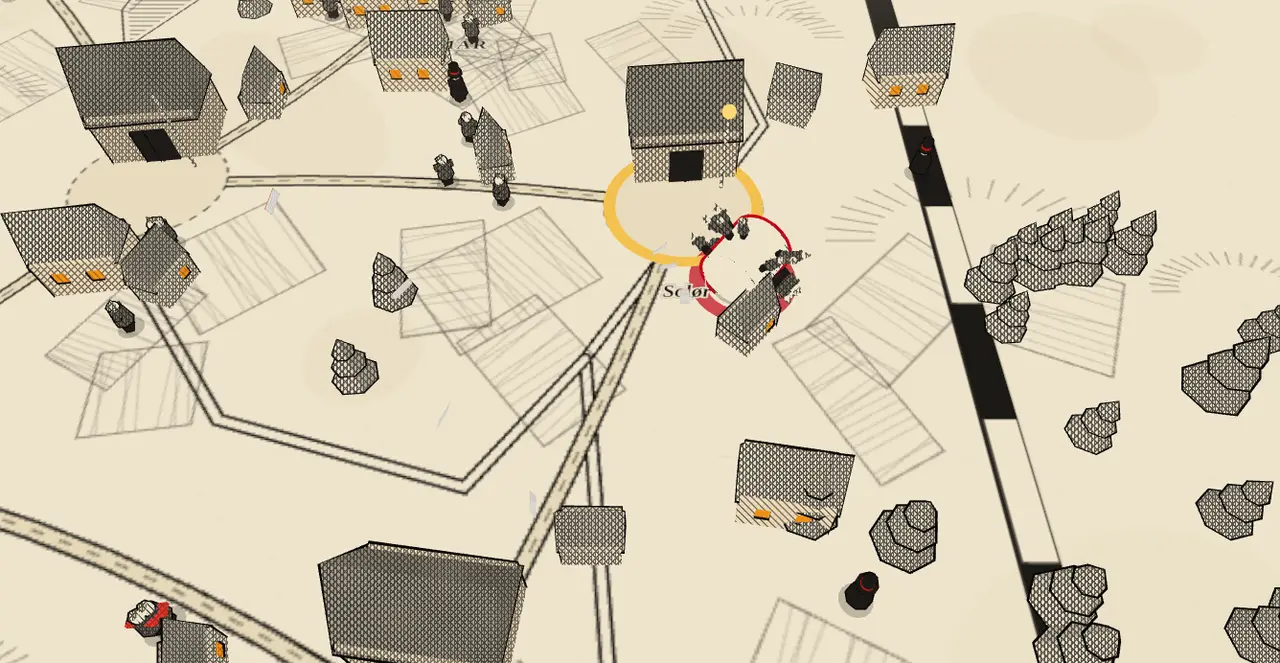
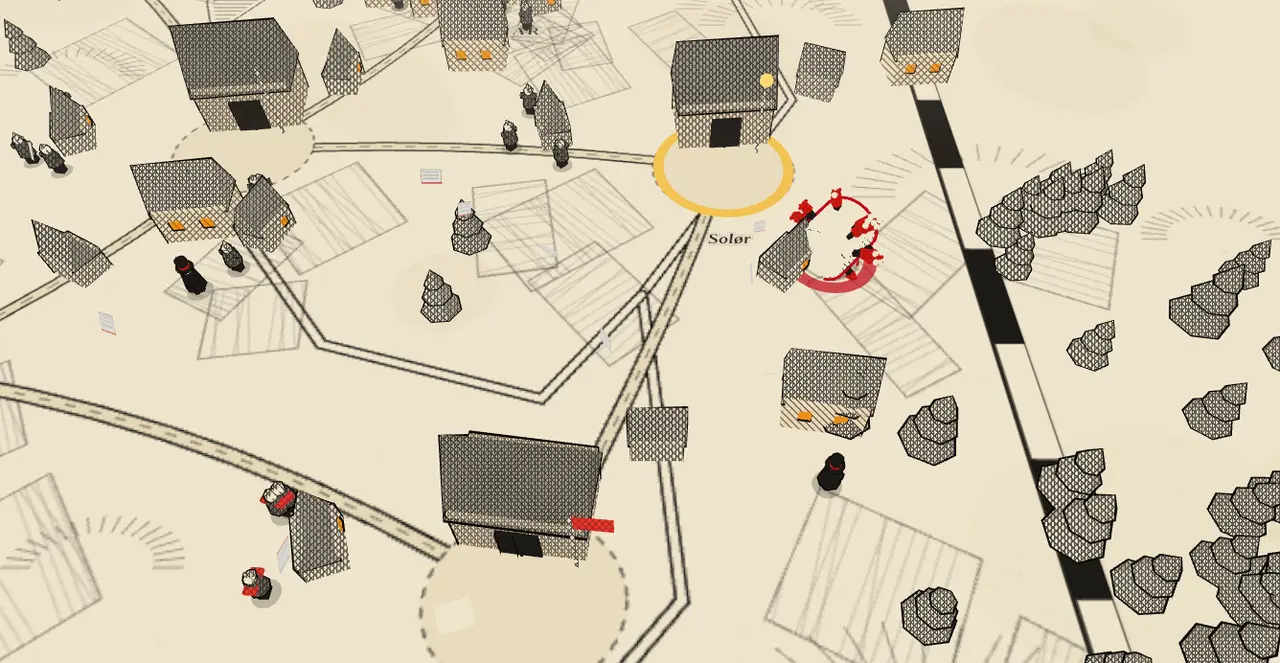
mikrospill: Petisjonen etter vurdering 4 (sum 20) - skremsel i stedet for riving, ryddigere skjerm, poeng for tidlig levering
Claude-Session: https://claude.ai/code/session_01Eke66YY2DheehCUdkLfmv8

diff --git a/src/components/microgames/Petisjonen3D.tsx b/src/components/microgames/Petisjonen3D.tsx
@@ -63,7 +63,8 @@ import {
 // og vikler opp navn (Katamari). Fagkjernen er regelen fra artikkelen: alene
 // får du ett navn om gangen. Samler du folk fra én bygd og holder møte i låven,
 // starter de sin egen forening med egen leder - og den samler navn til deg og
-// verver nabobygdene. De med stemmerett (høy svart hatt) river av navn.
+// verver nabobygdene. De med stemmerett (høy svart hatt) skremmer folk til å
+// trekke navnet sitt.
 //
 // Tone: alvorlig. Seieren følger plottet: 13 000 navn, levert på Slottet. Så
 // sier kongen nei - slik det skjedde.
@@ -95,18 +96,19 @@ const THEME: Partial<ArcadeTheme> = {
     tilt: 0,
     hudText: INK,
     hudStroke: PAPER,
-    bannerTop: '31%',
+    // Bannerne står rett under avishodet, aldri midt på rullen.
+    bannerTop: '19%',
 };
 
 const DEATH: Record<Cause, string> = {
     kort: 'Mai 1850: Petisjonen har bare {n} navn. Den er for kort til å sendes til kongen.',
-    revet: '{dato}: De med stemmerett har revet petisjonen i stykker. Det er ingen navn igjen.',
+    revet: '{dato}: De med makt har skremt alle til å trekke navnet sitt. Det er ingen navn igjen.',
 };
 
 const TIPS = {
     organiser:
         'Tips: Alene får du ett navn om gangen. Rull inn i folk fra samme bygd, og hold møte i låven når lykta lyser. Da samler foreningen navnene for deg.',
-    hatt: 'Tips: Høy svart hatt betyr stemmerett. De river av navn - sving rundt dem, og ikke stå stille når de kommer.',
+    hatt: 'Tips: Høy svart hatt betyr stemmerett og makt. De skremmer folk til å trekke navnet - sving rundt dem, og lever navnene i Bladet.',
     naer: 'Tips: Navnene flyr bare til deg når du er innenfor den røde ringen rundt foreningen. Rull ofte innom de store foreningene.',
 };
 
@@ -276,8 +278,9 @@ function Loop({
         zoom.current += (R.r - zoom.current) * Math.min(1, dt * 1.5);
         const zr = zoom.current;
         const menu = modeRef.current === 'menu';
-        const h = menu ? 19 : 15.5 + zr * 5.2;
-        const back = menu ? 13 : 10.5 + zr * 3.8;
+        const kick = Math.sin(g.kick * Math.PI) * 3;
+        const h = menu ? 19 : 15.5 + zr * 5.2 + kick;
+        const back = menu ? 13 : 10.5 + zr * 3.8 + kick * 0.6;
         const lx = R.p[0] + R.v[0] * 0.25;
         const lz = R.p[1] + R.v[1] * 0.25 - 1;
         CAM.set(lx + (menu ? Math.sin(state.clock.elapsedTime * 0.2) * 3 : 0), h, lz + back);
@@ -513,7 +516,7 @@ export default function Petisjonen3D({ onComplete }: MicroGameProps) {
             sfx.lose();
             buzz(220);
             setModeBoth('dying');
-            text.banner(cause === 'revet' ? 'PETISJONEN REVET' : 'FOR FÅ NAVN', INK, 2.4);
+            text.banner(cause === 'revet' ? 'ALLE NAVN TRUKKET' : 'FOR FÅ NAVN', INK, 2.4);
             window.setTimeout(() => endRun(false, cause), 2600);
         },
         delivered: () => {
@@ -566,12 +569,12 @@ export default function Petisjonen3D({ onComplete }: MicroGameProps) {
                     }
                     return best;
                 };
-                text.beatOnce(
-                    'politi',
-                    'Politiet tar lederne',
-                    'Kongen sa nei, og nå arresterer politiet lederne. Rull til foreningene og få lederne i skjul før politiet kommer.',
-                    { at: toScreen(near), until: () => Date.now() - t0 > 4500 }
-                );
+                // En lapp ved nærmeste leder - spillet går videre i full fart.
+                text.point('politi', 'Få lederen i skjul før politiet!', toScreen(near), {
+                    seconds: 4.5,
+                    tone: 'fare',
+                    until: () => Date.now() - t0 > 4500,
+                });
             }, 2900);
         },
         win: () => {
@@ -606,9 +609,7 @@ export default function Petisjonen3D({ onComplete }: MicroGameProps) {
                 hud.ghost.current.style.width = `${Math.min(100, ((n + piles) / GOAL) * 100)}%`;
             if (hud.piles.current)
                 hud.piles.current.textContent =
-                    g.phase !== 'samle'
-                        ? ''
-                        : `${nb(g.safe)} trygt i Bladet${piles >= 20 ? ` · ${nb(piles)} venter hos foreningene` : ''}`;
+                    g.phase !== 'samle' ? '' : `${nb(g.safe)} trygt i Bladet`;
             const d = dateOf(g.t);
             if (hud.date.current)
                 hud.date.current.textContent =
@@ -736,7 +737,7 @@ export default function Petisjonen3D({ onComplete }: MicroGameProps) {
                     press: g.press,
                     årsak:
                         g.cause === 'revet'
-                            ? `petisjonen revet i stykker (${g.hits} treff, ${Math.round(g.torn)} navn revet av)`
+                            ? `alle navn trukket (${g.hits} treff, ${Math.round(g.torn)} navn trukket)`
                             : g.cause === 'kort'
                               ? `bare ${Math.round(g.roll.names)} navn i mai 1850 (${g.foundedByYou} foreninger startet, ${g.recruited} vervet, ${g.hits} treff)`
                               : undefined,
@@ -986,7 +987,8 @@ export default function Petisjonen3D({ onComplete }: MicroGameProps) {
                                     <i style={{ background: INK }} />
                                 </span>
                                 <span>
-                                    <b>Høy svart hatt:</b> har stemmerett og river av navn.
+                                    <b>Høy svart hatt:</b> har stemmerett og skremmer folk til å
+                                    trekke navnet.
                                 </span>
                                 <span>
                                     <i style={{ background: PAPER, borderStyle: 'dashed' }} />
@@ -1138,7 +1140,7 @@ export default function Petisjonen3D({ onComplete }: MicroGameProps) {
                                     { value: nb(result.names), label: 'navn' },
                                     { value: result.foreninger, label: 'foreninger' },
                                     { value: nb(result.medlemmer), label: 'medlemmer' },
-                                    { value: nb(result.torn), label: 'navn revet av' },
+                                    { value: nb(result.torn), label: 'navn trukket' },
                                 ]}
                             />
                             {result.newEntries.length > 0 ? (

diff --git a/src/components/microgames/petisjonen/game.ts b/src/components/microgames/petisjonen/game.ts
@@ -7,7 +7,7 @@
 // starter de sin egen forening med egen leder. Foreningen verver videre av seg
 // selv og samler navn til deg - og fra mai 1849, da avisa kom, verver store
 // foreninger også nabobygda. De med stemmerett (gårdeiere og embetsmenn) vil
-// ikke ha forandring: de jager rullen og river av navn.
+// ikke ha forandring: de jager rullen og skremmer folk til å trekke navnet sitt.
 
 import {
     PLACES,
@@ -204,6 +204,8 @@ export interface G {
     delivered: boolean;
     cause: Cause | null;
     shake: number;
+    /** Kameraet puffer bakover når rullen vokser et trinn. */
+    kick: number;
     torn: number;
     hits: number;
     singles: number;
@@ -224,6 +226,8 @@ export interface G {
     /** 'samle' til petisjonen er levert, så 'knusing' (1851): politiet tar lederne. */
     phase: 'samle' | 'knusing';
     knusT: number;
+    /** Når petisjonen ble levert (for tidsbonusen). */
+    deliveredT: number;
     leaders: Leader[];
     saved: number;
     arrested: number;
@@ -374,6 +378,7 @@ export function newGame(rand: () => number = Math.random): G {
         delivered: false,
         cause: null,
         shake: 0,
+        kick: 0,
         torn: 0,
         hits: 0,
         singles: 0,
@@ -391,6 +396,7 @@ export function newGame(rand: () => number = Math.random): G {
         banked: 0,
         phase: 'samle',
         knusT: 0,
+        deliveredT: 0,
         leaders: [],
         saved: 0,
         arrested: 0,
@@ -511,7 +517,7 @@ function tear(g: G, h: Hunter, io: IO) {
         });
     io.lesson(
         'stemmerett',
-        'Embetsmenn og gårdeiere hadde stemmerett. De ville ikke dele makta med husmenn og arbeidere.',
+        'Embetsmenn og gårdeiere hadde stemmerett og makt. De ville ikke dele den, og husmenn som kunne bli kastet ut, var redde.',
         1
     );
     // Er det ingenting igjen å rive av, er petisjonen revet i stykker.
@@ -526,7 +532,7 @@ function tear(g: G, h: Hunter, io: IO) {
     const take = Math.min(R.names, lost);
     R.names -= take;
     g.torn += take;
-    io.float(`-${take} NAVN`, R.p[0], R.p[1], '#e0342a', true);
+    io.float(`SKREMT: -${take} NAVN`, R.p[0], R.p[1], '#e0342a', true);
     // Figurer ryker også av.
     g.stuck.splice(0, Math.min(g.stuck.length, 3));
 }
@@ -535,8 +541,11 @@ function tear(g: G, h: Hunter, io: IO) {
 // Sluttfasen, 1851: kongen sa nei, og politiet tar lederne
 // ---------------------------------------------------------------------------
 
+const LEADER_BONUS = 900;
+
 function startKnusing(g: G, io: IO) {
     g.delivered = true;
+    g.deliveredT = g.t;
     g.phase = 'knusing';
     g.knusT = 0;
     g.open = false;
@@ -587,10 +596,10 @@ function knusing(g: G, dt: number, io: IO) {
         if (dist(R.p, tun) < R.r + 1.7) {
             l.state = 'skjult';
             g.saved++;
-            g.score += 500;
+            g.score += LEADER_BONUS;
             R.bump = 1;
             io.sfx.found();
-            io.float('LEDER I SKJUL +500', tun[0], tun[1], '#b3261e', true);
+            io.float(`LEDER I SKJUL +${LEADER_BONUS}`, tun[0], tun[1], '#b3261e', true);
             if (g.stuck.length < MAX_STUCK)
                 g.stuck.push({ ang: -R.spin, along: 0, wob: g.rand() * 6, kind: 0 });
         }
@@ -986,6 +995,7 @@ export function update(g: G, dt: number, io: IO) {
         R.names >= 8000 ? 4 : R.names >= 3000 ? 3 : R.names >= 800 ? 2 : R.names >= 150 ? 1 : 0;
     if (lvl > g.level) {
         g.level = lvl;
+        g.kick = 1;
         io.sfx.grow(lvl);
         io.float(`${GROW_NAMES[lvl]}!`, R.p[0], R.p[1], '#b3261e', true);
     }
@@ -1006,7 +1016,7 @@ export function update(g: G, dt: number, io: IO) {
             io.beat(
                 'hatt',
                 'Høy svart hatt = stemmerett',
-                'Embetsmenn og gårdeiere kunne stemme. De ville ikke ha forandring, og river navn av petisjonen. Sving unna!',
+                'De hadde stemmerett og ville ikke ha forandring. Når de kommer, blir folk redde og trekker navnet sitt. Sving unna!',
                 () => h.p,
                 () => Date.now() - t0 > 4500
             );
@@ -1172,6 +1182,7 @@ function addNames(g: G, n: number) {
 /** Enkle effekter som går også utenfor spill (meny, slutt-skjerm). */
 export function stepFx(g: G, dt: number) {
     g.shake = Math.max(0, g.shake - dt * 2);
+    g.kick = Math.max(0, g.kick - dt * 1.2);
     for (let k = g.scraps.length - 1; k >= 0; k--) {
         const s = g.scraps[k];
         s.life -= dt;
@@ -1218,8 +1229,9 @@ export function liveScore(g: G) {
 }
 
 export function finalScore(g: G, won: boolean) {
-    const left = Math.max(0, RUN_SECONDS - g.t);
-    return Math.floor(liveScore(g) + (won ? 2000 + left * 60 : 0));
+    // Tidsbonus for hver måned (hvert sekund) du leverte før mai 1850.
+    const left = Math.max(0, RUN_SECONDS - (g.deliveredT || g.t));
+    return Math.floor(liveScore(g) + (won ? 2000 + left * 120 : 0));
 }
 
 export { dist, SLOTTET, PLACES };

diff --git a/src/components/microgames/petisjonen/world.tsx b/src/components/microgames/petisjonen/world.tsx
@@ -114,6 +114,13 @@ const GEO = {
         { geometry: new THREE.ConeGeometry(0.55, 1.0, 7), position: [0, 1.6, 0], color: '#7d7a5c' },
         { geometry: new THREE.ConeGeometry(0.34, 0.7, 7), position: [0, 2.1, 0], color: '#7d7a5c' },
     ]),
+    // Folk som har skrevet under og henger på rullen: røde, så rullen ser full av folk ut.
+    signer: mergeParts([
+        { geometry: box(0.3, 0.42, 0.2), position: [0, 0.21, 0], color: '#3f382f' },
+        { geometry: cyl(0.19, 0.26, 0.52, 7), position: [0, 0.66, 0], color: RED },
+        { geometry: box(0.62, 0.12, 0.14), position: [0, 0.82, 0], color: RED },
+        { geometry: ball(0.15), position: [0, 1.04, 0], color: '#e6d3b2' },
+    ]),
     person: mergeParts([
         { geometry: box(0.3, 0.42, 0.2), position: [0, 0.21, 0], color: '#3f382f' },
         { geometry: cyl(0.19, 0.26, 0.52, 7), position: [0, 0.66, 0], color: '#74685a' },
@@ -212,6 +219,7 @@ const LINE = {
 
 // Flate normaler: hver flate får sin egen skravur, som i et tresnitt.
 for (const g of [
+    GEO.signer,
     GEO.lave,
     GEO.stue,
     GEO.husmann,
@@ -744,9 +752,11 @@ export function People({ gRef }: { gRef: GRef }) {
                 put(dg, hi, h.p[0], 0.04, h.p[1], 0, 1.1 + Math.sin(t * 8) * 0.12, 0, 0, 1);
             } else {
                 hide(al, hi);
-                hide(dg, hi);
+                // Embetsmenn får en svak ring også når de ikke jager: lette å skille fra grå luer.
+                if (!isB && h.stun <= 0) put(dg, hi, h.p[0], 0.04, h.p[1], 0, 0.75, 0, 0, 1);
+                else hide(dg, hi);
             }
-            // Står og river i papiret etter et treff.
+            // Står og viser fram et papir etter et treff (navnene som ble trukket).
             if (h.stun > 0)
                 put(
                     pa,
@@ -933,7 +943,7 @@ export function Roll({ gRef }: { gRef: GRef }) {
                     />
                     <instancedMesh
                         ref={stuck}
-                        args={[GEO.person, VC(), MAX_STUCK]}
+                        args={[GEO.signer, VC(), MAX_STUCK]}
                         frustumCulled={false}
                     />
                 </group>
